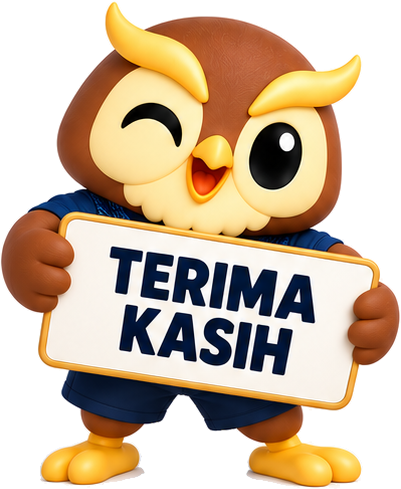
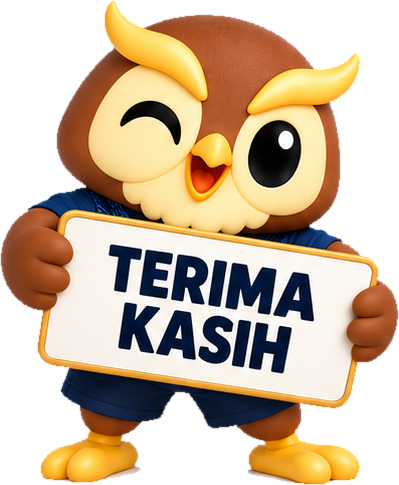
Maskot: tepi bersih (tanpa halo putih) + bayangan hero

diff --git a/style.css b/style.css
@@ -77,7 +77,16 @@ h2 .y{color:var(--hot)}
 .hero-stats{display:flex;gap:30px;margin-top:36px}
 .hero-stats b{font-family:'Display';font-size:28px;display:block;line-height:1;color:var(--yellow)}
 .hero-stats span{font-weight:700;font-size:11px;letter-spacing:.16em;opacity:.6}
-.hero-maskot{align-self:end;max-width:420px;width:100%;margin-left:auto;filter:drop-shadow(0 8px 14px rgba(0,0,0,.35))}
+.hero-maskot{align-self:end;max-width:400px;width:100%;margin-left:auto;position:relative;z-index:2;
+  filter:drop-shadow(-6px 6px 6px rgba(4,20,36,.45)) drop-shadow(0 18px 14px rgba(4,20,36,.4));
+  animation:floaty 5.5s ease-in-out infinite}
+.hero-shadow{position:absolute;right:0;bottom:-6px;width:78%;height:44px;z-index:1;
+  background:radial-gradient(ellipse at center,rgba(4,20,36,.5) 0%,rgba(4,20,36,0) 70%);
+  border-radius:50%;animation:pulse 5.5s ease-in-out infinite}
+@keyframes floaty{0%,100%{transform:translateY(0)}50%{transform:translateY(-8px)}}
+@keyframes pulse{0%,100%{transform:scaleX(1);opacity:.9}50%{transform:scaleX(.86);opacity:.6}}
+.hero-maskot-wrap{position:relative;align-self:end}
+@media (prefers-reduced-motion:reduce){.hero-maskot,.hero-shadow{animation:none}}
 .hero-photo{height:190px;overflow:hidden}
 .hero-photo img{width:100%;height:100%;object-fit:cover;object-position:center 40%;filter:grayscale(1) contrast(1.08) brightness(.9)}
 
@@ -266,7 +275,8 @@ h2 .y{color:var(--hot)}
   .gal-tall img{height:210px}
   .daftar-in,.donasi-in{grid-template-columns:1fr}
   .hero-in{grid-template-columns:1fr;min-height:0;padding-top:38px}
-  .hero-maskot{max-width:300px;margin:10px auto 0;order:-1}
+  .hero-maskot{max-width:280px}
+  .hero-maskot-wrap{margin:0 auto;order:-1}
   .hero-photo{height:150px}
   .daftar-maskot{width:110px}
 }

diff --git a/index.html b/index.html
@@ -52,7 +52,7 @@
         <div><b>31,4K</b><span>FOLLOWERS</span></div>
       </div>
     </div>
-    <img class="hero-maskot" src="assets/m03.png" alt="Maskot SM CUP">
+    <div class="hero-maskot-wrap"><div class="hero-shadow"></div><img class="hero-maskot" src="assets/m03.png" alt="Maskot SM CUP"></div>
   </div>
   <div class="hero-photo"><img src="assets/pc.jpg" alt="Suasana pertandingan"></div>
 </section>
